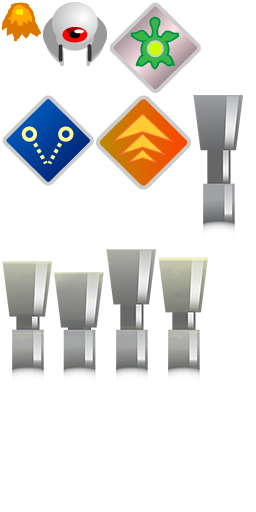
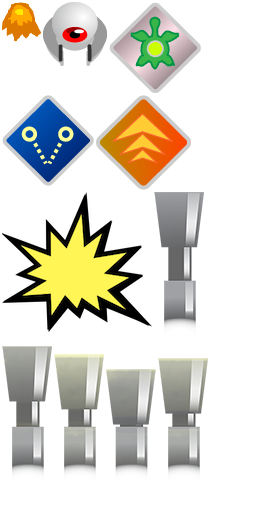
Explosions...
+Added to atlas
+Smaller

diff --git a/Turtle Run/TurtleRun2.0/HelloWorldLayer.m b/Turtle Run/TurtleRun2.0/HelloWorldLayer.m
@@ -77,9 +77,8 @@
         [[CCSpriteFrameCache sharedSpriteFrameCache] addSpriteFramesWithFile:@"atlas0.plist"];
         
         NSMutableArray *firstAtlasFrames = [NSMutableArray array];
-        NSArray *firstAtlasFilenames = [NSArray arrayWithObjects:@"blast.png", @"cannon_0.png", @"cannon_1.png", @"cannon_2.png", @"cannon_3.png", @"cannon_4.png", @"clawg.png", @"fpsup.png", @"oneup.png", @"scatterup.png", nil];
-        //GET THIS PART TO WORK!!!!!!!!!!!!!!!!!!!!!!
-        for (int i = 0; i <= 9; i++) {
+        NSArray *firstAtlasFilenames = [NSArray arrayWithObjects:@"blast.png", @"cannon_0.png", @"cannon_1.png", @"cannon_2.png", @"cannon_3.png", @"cannon_4.png", @"clawg.png", @"fpsup.png", @"oneup.png", @"scatterup.png", @"splode.png", nil];
+        for (int i = 0; i <= 10; i++) {
             CCSpriteFrame *frame = [[CCSpriteFrameCache sharedSpriteFrameCache] spriteFrameByName:firstAtlasFilenames[i]];
             [firstAtlasFrames addObject:frame];
         }

diff --git a/Turtle Run/TurtleRun2.0/Obstacle.m b/Turtle Run/TurtleRun2.0/Obstacle.m
@@ -25,7 +25,6 @@
         hp = 100;
         int cols = 4;
         int col = arc4random_uniform(cols);
-        texSplode = [[CCTextureCache sharedTextureCache] addImage:@"splode.png"];
         CGSize size = [[CCDirector sharedDirector] winSize];
         self.position = ccp(
 
@@ -112,7 +111,7 @@
 
 -(void) splode {
     obstacleSpeed = 100;
-    [self addChild:[CCSprite spriteWithTexture:texSplode]];
+    [self addChild:[[CCSpriteFrameCache sharedSpriteFrameCache] spriteFrameByName:@"splode.png"]];
 }
 
 
